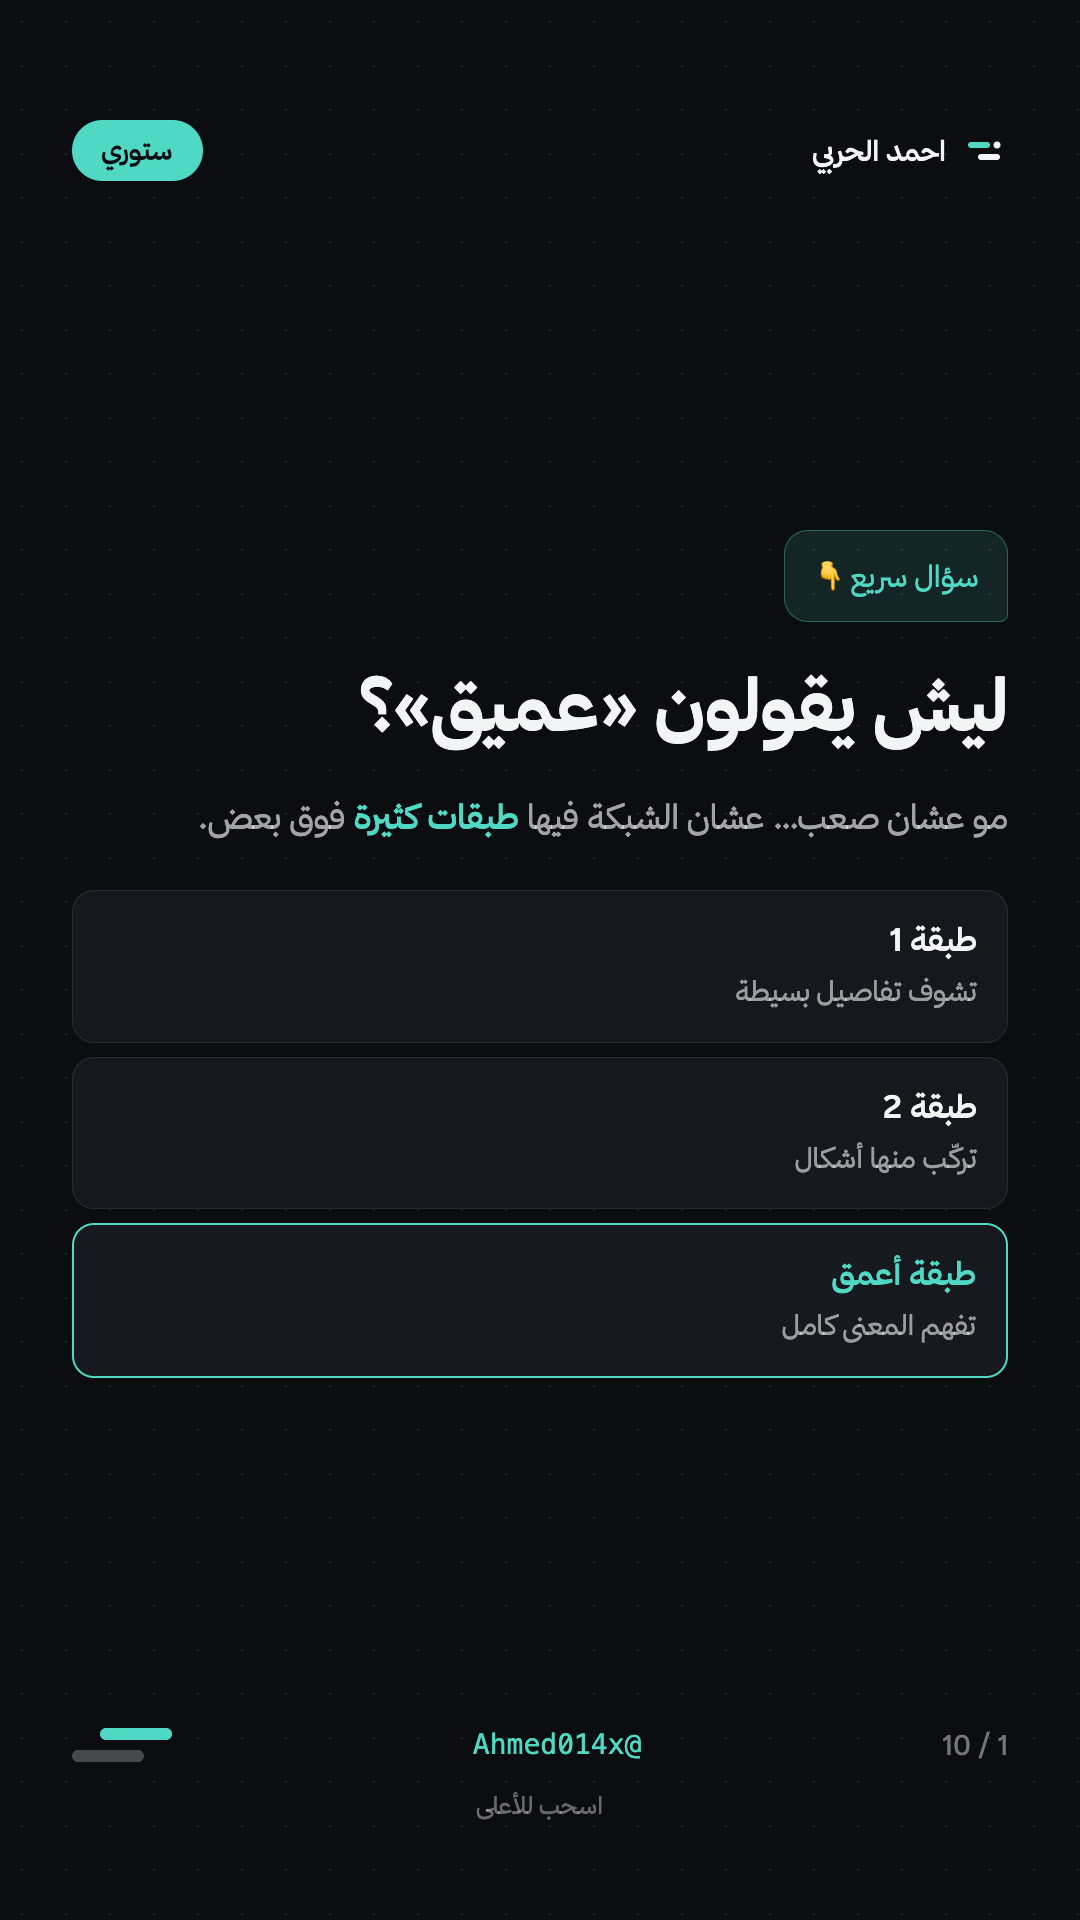
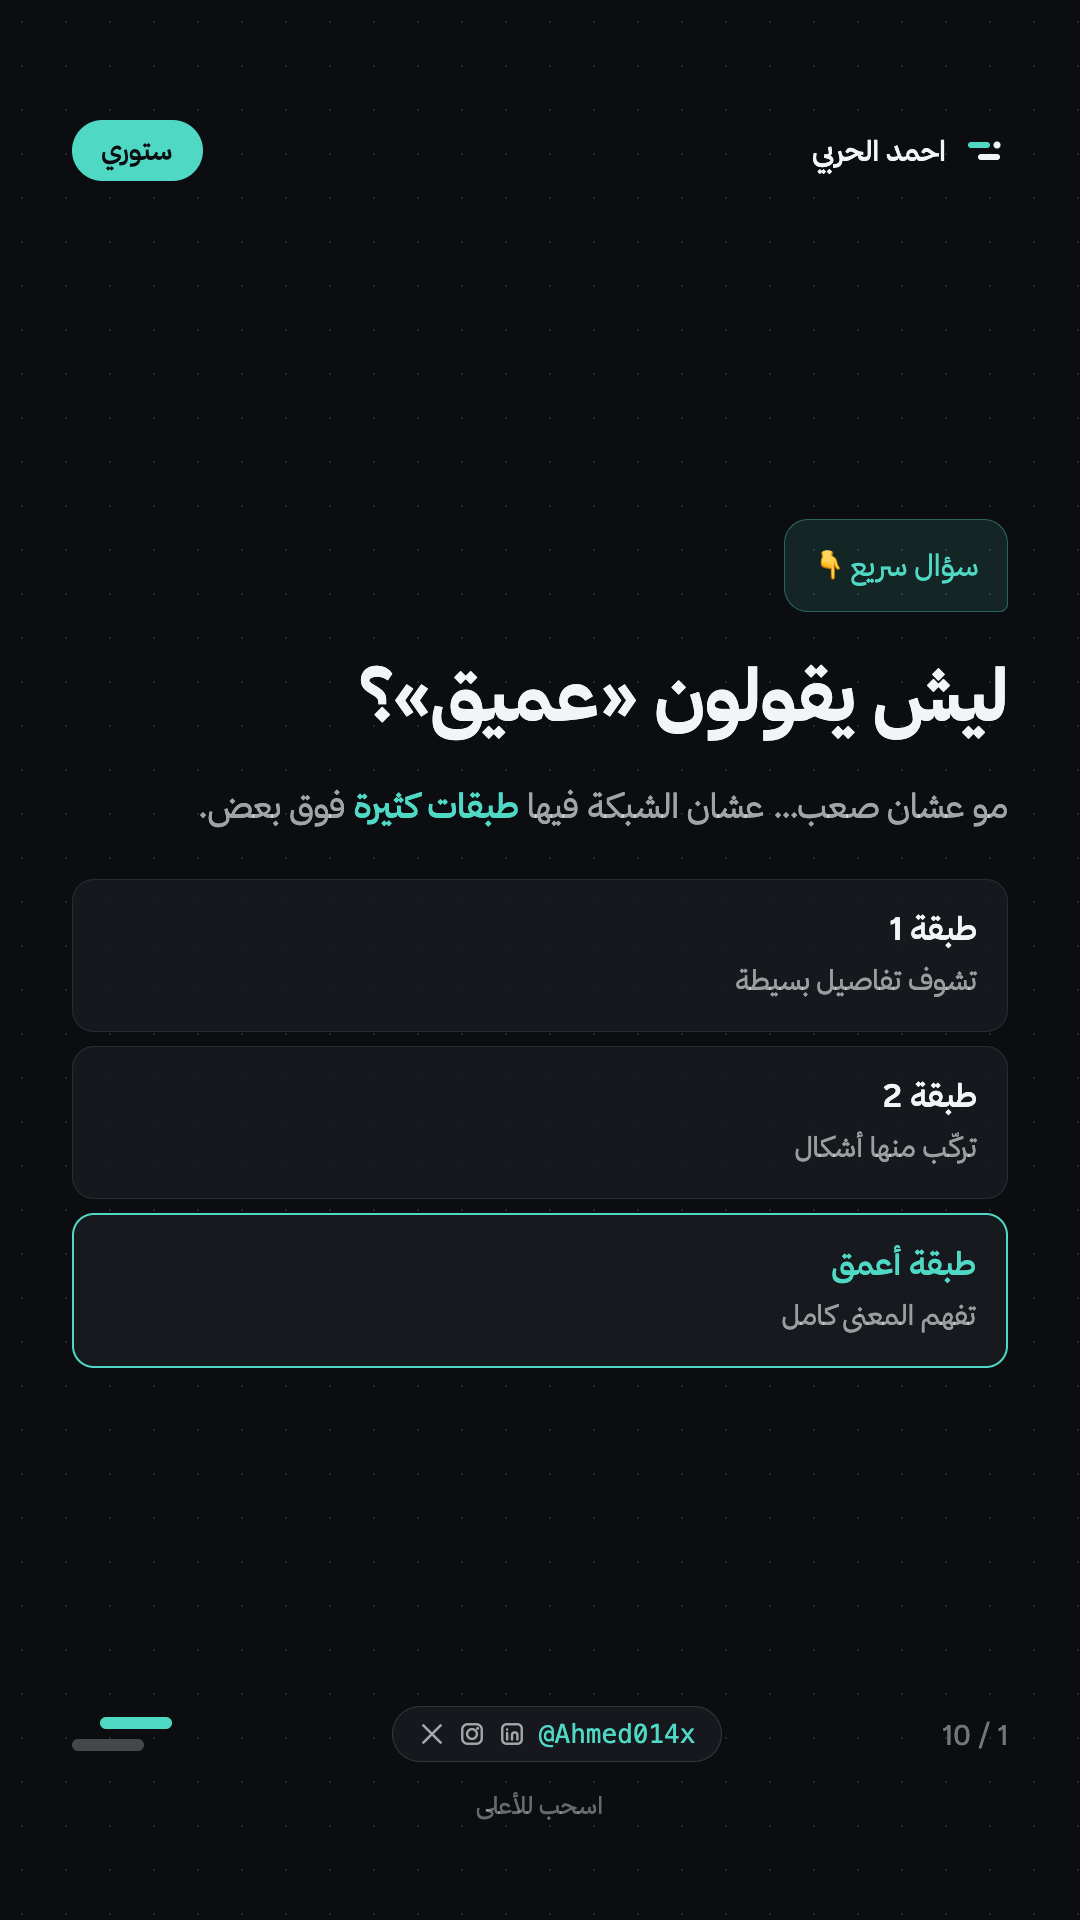
Update brand package HTML and PNG assets to enhance visual consistency and improve layout. Replace social media handle with a styled container for better presentation across multiple sections.

diff --git a/brand-package/html/ستوريات-التعلم-العميق.html b/brand-package/html/ستوريات-التعلم-العميق.html
@@ -44,7 +44,7 @@ body{margin:0;background:#171a1f;font-family:'Thmanyah Sans',sans-serif}
   <div style="margin-top:auto;display:flex;flex-direction:column;gap:28px">
   <div style="display:flex;justify-content:space-between;align-items:center">
     <span style="font-size:28px;color:rgba(242,244,246,.45)">1 / 10</span>
-    <span style="font-family:ui-monospace,monospace;font-size:28px;color:#4fd8c4">@Ahmed014x</span>
+    <div dir="ltr" style="display:flex;align-items:center;gap:14px;padding:12px 26px;background:rgba(23,26,31,.9);border:1px solid rgba(255,255,255,.12);border-radius:999px"><svg width="26" height="26" viewBox="0 0 24 24" fill="none" stroke="rgba(242,244,246,.65)" stroke-width="2.4" stroke-linecap="round"><path d="M4 4l16 16M20 4L4 20"/></svg><svg width="26" height="26" viewBox="0 0 24 24" fill="none" stroke="rgba(242,244,246,.65)" stroke-width="2.2" stroke-linecap="round"><rect x="3" y="3" width="18" height="18" rx="5"/><circle cx="12" cy="12" r="4.5"/><circle cx="17.2" cy="6.8" r="1.4" fill="rgba(242,244,246,.65)" stroke="none"/></svg><svg width="26" height="26" viewBox="0 0 24 24" fill="none" stroke="rgba(242,244,246,.65)" stroke-width="2.2" stroke-linecap="round"><rect x="3" y="3" width="18" height="18" rx="4"/><path d="M7.5 11v6M7.5 7.8v.1M12 17v-4a2.5 2.5 0 0 1 5 0v4"/></svg><span dir="ltr" style="font-size:26px;font-family:ui-monospace,monospace;color:#4fd8c4">@Ahmed014x</span></div>
     <div style="display:flex;flex-direction:column;gap:10px;align-items:flex-start"><span style="width:72px;height:12px;border-radius:6px;background:#4fd8c4"></span><span style="width:72px;height:12px;border-radius:6px;background:rgba(242,244,246,.25);margin-right:28px"></span></div>
   </div>
   <div style="text-align:center;font-size:24px;color:rgba(242,244,246,.4)">اسحب للأعلى</div>
@@ -66,7 +66,7 @@ body{margin:0;background:#171a1f;font-family:'Thmanyah Sans',sans-serif}
   <div style="margin-top:auto;display:flex;flex-direction:column;gap:28px">
   <div style="display:flex;justify-content:space-between;align-items:center">
     <span style="font-size:28px;color:rgba(242,244,246,.45)">2 / 10</span>
-    <span style="font-family:ui-monospace,monospace;font-size:28px;color:#4fd8c4">@Ahmed014x</span>
+    <div dir="ltr" style="display:flex;align-items:center;gap:14px;padding:12px 26px;background:rgba(23,26,31,.9);border:1px solid rgba(255,255,255,.12);border-radius:999px"><svg width="26" height="26" viewBox="0 0 24 24" fill="none" stroke="rgba(242,244,246,.65)" stroke-width="2.4" stroke-linecap="round"><path d="M4 4l16 16M20 4L4 20"/></svg><svg width="26" height="26" viewBox="0 0 24 24" fill="none" stroke="rgba(242,244,246,.65)" stroke-width="2.2" stroke-linecap="round"><rect x="3" y="3" width="18" height="18" rx="5"/><circle cx="12" cy="12" r="4.5"/><circle cx="17.2" cy="6.8" r="1.4" fill="rgba(242,244,246,.65)" stroke="none"/></svg><svg width="26" height="26" viewBox="0 0 24 24" fill="none" stroke="rgba(242,244,246,.65)" stroke-width="2.2" stroke-linecap="round"><rect x="3" y="3" width="18" height="18" rx="4"/><path d="M7.5 11v6M7.5 7.8v.1M12 17v-4a2.5 2.5 0 0 1 5 0v4"/></svg><span dir="ltr" style="font-size:26px;font-family:ui-monospace,monospace;color:#4fd8c4">@Ahmed014x</span></div>
     <div style="display:flex;flex-direction:column;gap:10px;align-items:flex-start"><span style="width:72px;height:12px;border-radius:6px;background:#4fd8c4"></span><span style="width:72px;height:12px;border-radius:6px;background:rgba(242,244,246,.25);margin-right:28px"></span></div>
   </div>
   <div style="text-align:center;font-size:24px;color:rgba(242,244,246,.4)">اسحب للأعلى</div>
@@ -99,7 +99,7 @@ body{margin:0;background:#171a1f;font-family:'Thmanyah Sans',sans-serif}
   <div style="margin-top:auto;display:flex;flex-direction:column;gap:28px">
   <div style="display:flex;justify-content:space-between;align-items:center">
     <span style="font-size:28px;color:rgba(242,244,246,.45)">3 / 10</span>
-    <span style="font-family:ui-monospace,monospace;font-size:28px;color:#4fd8c4">@Ahmed014x</span>
+    <div dir="ltr" style="display:flex;align-items:center;gap:14px;padding:12px 26px;background:rgba(23,26,31,.9);border:1px solid rgba(255,255,255,.12);border-radius:999px"><svg width="26" height="26" viewBox="0 0 24 24" fill="none" stroke="rgba(242,244,246,.65)" stroke-width="2.4" stroke-linecap="round"><path d="M4 4l16 16M20 4L4 20"/></svg><svg width="26" height="26" viewBox="0 0 24 24" fill="none" stroke="rgba(242,244,246,.65)" stroke-width="2.2" stroke-linecap="round"><rect x="3" y="3" width="18" height="18" rx="5"/><circle cx="12" cy="12" r="4.5"/><circle cx="17.2" cy="6.8" r="1.4" fill="rgba(242,244,246,.65)" stroke="none"/></svg><svg width="26" height="26" viewBox="0 0 24 24" fill="none" stroke="rgba(242,244,246,.65)" stroke-width="2.2" stroke-linecap="round"><rect x="3" y="3" width="18" height="18" rx="4"/><path d="M7.5 11v6M7.5 7.8v.1M12 17v-4a2.5 2.5 0 0 1 5 0v4"/></svg><span dir="ltr" style="font-size:26px;font-family:ui-monospace,monospace;color:#4fd8c4">@Ahmed014x</span></div>
     <div style="display:flex;flex-direction:column;gap:10px;align-items:flex-start"><span style="width:72px;height:12px;border-radius:6px;background:#4fd8c4"></span><span style="width:72px;height:12px;border-radius:6px;background:rgba(242,244,246,.25);margin-right:28px"></span></div>
   </div>
   <div style="text-align:center;font-size:24px;color:rgba(242,244,246,.4)">اسحب للأعلى</div>
@@ -132,7 +132,7 @@ body{margin:0;background:#171a1f;font-family:'Thmanyah Sans',sans-serif}
   <div style="margin-top:auto;display:flex;flex-direction:column;gap:28px">
   <div style="display:flex;justify-content:space-between;align-items:center">
     <span style="font-size:28px;color:rgba(242,244,246,.45)">4 / 10</span>
-    <span style="font-family:ui-monospace,monospace;font-size:28px;color:#4fd8c4">@Ahmed014x</span>
+    <div dir="ltr" style="display:flex;align-items:center;gap:14px;padding:12px 26px;background:rgba(23,26,31,.9);border:1px solid rgba(255,255,255,.12);border-radius:999px"><svg width="26" height="26" viewBox="0 0 24 24" fill="none" stroke="rgba(242,244,246,.65)" stroke-width="2.4" stroke-linecap="round"><path d="M4 4l16 16M20 4L4 20"/></svg><svg width="26" height="26" viewBox="0 0 24 24" fill="none" stroke="rgba(242,244,246,.65)" stroke-width="2.2" stroke-linecap="round"><rect x="3" y="3" width="18" height="18" rx="5"/><circle cx="12" cy="12" r="4.5"/><circle cx="17.2" cy="6.8" r="1.4" fill="rgba(242,244,246,.65)" stroke="none"/></svg><svg width="26" height="26" viewBox="0 0 24 24" fill="none" stroke="rgba(242,244,246,.65)" stroke-width="2.2" stroke-linecap="round"><rect x="3" y="3" width="18" height="18" rx="4"/><path d="M7.5 11v6M7.5 7.8v.1M12 17v-4a2.5 2.5 0 0 1 5 0v4"/></svg><span dir="ltr" style="font-size:26px;font-family:ui-monospace,monospace;color:#4fd8c4">@Ahmed014x</span></div>
     <div style="display:flex;flex-direction:column;gap:10px;align-items:flex-start"><span style="width:72px;height:12px;border-radius:6px;background:#4fd8c4"></span><span style="width:72px;height:12px;border-radius:6px;background:rgba(242,244,246,.25);margin-right:28px"></span></div>
   </div>
   <div style="text-align:center;font-size:24px;color:rgba(242,244,246,.4)">اسحب للأعلى</div>
@@ -158,7 +158,7 @@ body{margin:0;background:#171a1f;font-family:'Thmanyah Sans',sans-serif}
   <div style="margin-top:auto;display:flex;flex-direction:column;gap:28px">
   <div style="display:flex;justify-content:space-between;align-items:center">
     <span style="font-size:28px;color:rgba(242,244,246,.45)">5 / 10</span>
-    <span style="font-family:ui-monospace,monospace;font-size:28px;color:#4fd8c4">@Ahmed014x</span>
+    <div dir="ltr" style="display:flex;align-items:center;gap:14px;padding:12px 26px;background:rgba(23,26,31,.9);border:1px solid rgba(255,255,255,.12);border-radius:999px"><svg width="26" height="26" viewBox="0 0 24 24" fill="none" stroke="rgba(242,244,246,.65)" stroke-width="2.4" stroke-linecap="round"><path d="M4 4l16 16M20 4L4 20"/></svg><svg width="26" height="26" viewBox="0 0 24 24" fill="none" stroke="rgba(242,244,246,.65)" stroke-width="2.2" stroke-linecap="round"><rect x="3" y="3" width="18" height="18" rx="5"/><circle cx="12" cy="12" r="4.5"/><circle cx="17.2" cy="6.8" r="1.4" fill="rgba(242,244,246,.65)" stroke="none"/></svg><svg width="26" height="26" viewBox="0 0 24 24" fill="none" stroke="rgba(242,244,246,.65)" stroke-width="2.2" stroke-linecap="round"><rect x="3" y="3" width="18" height="18" rx="4"/><path d="M7.5 11v6M7.5 7.8v.1M12 17v-4a2.5 2.5 0 0 1 5 0v4"/></svg><span dir="ltr" style="font-size:26px;font-family:ui-monospace,monospace;color:#4fd8c4">@Ahmed014x</span></div>
     <div style="display:flex;flex-direction:column;gap:10px;align-items:flex-start"><span style="width:72px;height:12px;border-radius:6px;background:#4fd8c4"></span><span style="width:72px;height:12px;border-radius:6px;background:rgba(242,244,246,.25);margin-right:28px"></span></div>
   </div>
   <div style="text-align:center;font-size:24px;color:rgba(242,244,246,.4)">اسحب للأعلى</div>
@@ -187,7 +187,7 @@ body{margin:0;background:#171a1f;font-family:'Thmanyah Sans',sans-serif}
   <div style="margin-top:auto;display:flex;flex-direction:column;gap:28px">
   <div style="display:flex;justify-content:space-between;align-items:center">
     <span style="font-size:28px;color:rgba(242,244,246,.45)">6 / 10</span>
-    <span style="font-family:ui-monospace,monospace;font-size:28px;color:#4fd8c4">@Ahmed014x</span>
+    <div dir="ltr" style="display:flex;align-items:center;gap:14px;padding:12px 26px;background:rgba(23,26,31,.9);border:1px solid rgba(255,255,255,.12);border-radius:999px"><svg width="26" height="26" viewBox="0 0 24 24" fill="none" stroke="rgba(242,244,246,.65)" stroke-width="2.4" stroke-linecap="round"><path d="M4 4l16 16M20 4L4 20"/></svg><svg width="26" height="26" viewBox="0 0 24 24" fill="none" stroke="rgba(242,244,246,.65)" stroke-width="2.2" stroke-linecap="round"><rect x="3" y="3" width="18" height="18" rx="5"/><circle cx="12" cy="12" r="4.5"/><circle cx="17.2" cy="6.8" r="1.4" fill="rgba(242,244,246,.65)" stroke="none"/></svg><svg width="26" height="26" viewBox="0 0 24 24" fill="none" stroke="rgba(242,244,246,.65)" stroke-width="2.2" stroke-linecap="round"><rect x="3" y="3" width="18" height="18" rx="4"/><path d="M7.5 11v6M7.5 7.8v.1M12 17v-4a2.5 2.5 0 0 1 5 0v4"/></svg><span dir="ltr" style="font-size:26px;font-family:ui-monospace,monospace;color:#4fd8c4">@Ahmed014x</span></div>
     <div style="display:flex;flex-direction:column;gap:10px;align-items:flex-start"><span style="width:72px;height:12px;border-radius:6px;background:#4fd8c4"></span><span style="width:72px;height:12px;border-radius:6px;background:rgba(242,244,246,.25);margin-right:28px"></span></div>
   </div>
   <div style="text-align:center;font-size:24px;color:rgba(242,244,246,.4)">اسحب للأعلى</div>
@@ -222,7 +222,7 @@ body{margin:0;background:#171a1f;font-family:'Thmanyah Sans',sans-serif}
   <div style="margin-top:auto;display:flex;flex-direction:column;gap:28px">
   <div style="display:flex;justify-content:space-between;align-items:center">
     <span style="font-size:28px;color:rgba(242,244,246,.45)">7 / 10</span>
-    <span style="font-family:ui-monospace,monospace;font-size:28px;color:#4fd8c4">@Ahmed014x</span>
+    <div dir="ltr" style="display:flex;align-items:center;gap:14px;padding:12px 26px;background:rgba(23,26,31,.9);border:1px solid rgba(255,255,255,.12);border-radius:999px"><svg width="26" height="26" viewBox="0 0 24 24" fill="none" stroke="rgba(242,244,246,.65)" stroke-width="2.4" stroke-linecap="round"><path d="M4 4l16 16M20 4L4 20"/></svg><svg width="26" height="26" viewBox="0 0 24 24" fill="none" stroke="rgba(242,244,246,.65)" stroke-width="2.2" stroke-linecap="round"><rect x="3" y="3" width="18" height="18" rx="5"/><circle cx="12" cy="12" r="4.5"/><circle cx="17.2" cy="6.8" r="1.4" fill="rgba(242,244,246,.65)" stroke="none"/></svg><svg width="26" height="26" viewBox="0 0 24 24" fill="none" stroke="rgba(242,244,246,.65)" stroke-width="2.2" stroke-linecap="round"><rect x="3" y="3" width="18" height="18" rx="4"/><path d="M7.5 11v6M7.5 7.8v.1M12 17v-4a2.5 2.5 0 0 1 5 0v4"/></svg><span dir="ltr" style="font-size:26px;font-family:ui-monospace,monospace;color:#4fd8c4">@Ahmed014x</span></div>
     <div style="display:flex;flex-direction:column;gap:10px;align-items:flex-start"><span style="width:72px;height:12px;border-radius:6px;background:#4fd8c4"></span><span style="width:72px;height:12px;border-radius:6px;background:rgba(242,244,246,.25);margin-right:28px"></span></div>
   </div>
   <div style="text-align:center;font-size:24px;color:rgba(242,244,246,.4)">اسحب للأعلى</div>
@@ -251,7 +251,7 @@ body{margin:0;background:#171a1f;font-family:'Thmanyah Sans',sans-serif}
   <div style="margin-top:auto;display:flex;flex-direction:column;gap:28px">
   <div style="display:flex;justify-content:space-between;align-items:center">
     <span style="font-size:28px;color:rgba(242,244,246,.45)">8 / 10</span>
-    <span style="font-family:ui-monospace,monospace;font-size:28px;color:#4fd8c4">@Ahmed014x</span>
+    <div dir="ltr" style="display:flex;align-items:center;gap:14px;padding:12px 26px;background:rgba(23,26,31,.9);border:1px solid rgba(255,255,255,.12);border-radius:999px"><svg width="26" height="26" viewBox="0 0 24 24" fill="none" stroke="rgba(242,244,246,.65)" stroke-width="2.4" stroke-linecap="round"><path d="M4 4l16 16M20 4L4 20"/></svg><svg width="26" height="26" viewBox="0 0 24 24" fill="none" stroke="rgba(242,244,246,.65)" stroke-width="2.2" stroke-linecap="round"><rect x="3" y="3" width="18" height="18" rx="5"/><circle cx="12" cy="12" r="4.5"/><circle cx="17.2" cy="6.8" r="1.4" fill="rgba(242,244,246,.65)" stroke="none"/></svg><svg width="26" height="26" viewBox="0 0 24 24" fill="none" stroke="rgba(242,244,246,.65)" stroke-width="2.2" stroke-linecap="round"><rect x="3" y="3" width="18" height="18" rx="4"/><path d="M7.5 11v6M7.5 7.8v.1M12 17v-4a2.5 2.5 0 0 1 5 0v4"/></svg><span dir="ltr" style="font-size:26px;font-family:ui-monospace,monospace;color:#4fd8c4">@Ahmed014x</span></div>
     <div style="display:flex;flex-direction:column;gap:10px;align-items:flex-start"><span style="width:72px;height:12px;border-radius:6px;background:#4fd8c4"></span><span style="width:72px;height:12px;border-radius:6px;background:rgba(242,244,246,.25);margin-right:28px"></span></div>
   </div>
   <div style="text-align:center;font-size:24px;color:rgba(242,244,246,.4)">اسحب للأعلى</div>
@@ -284,7 +284,7 @@ body{margin:0;background:#171a1f;font-family:'Thmanyah Sans',sans-serif}
   <div style="margin-top:auto;display:flex;flex-direction:column;gap:28px">
   <div style="display:flex;justify-content:space-between;align-items:center">
     <span style="font-size:28px;color:rgba(242,244,246,.45)">9 / 10</span>
-    <span style="font-family:ui-monospace,monospace;font-size:28px;color:#4fd8c4">@Ahmed014x</span>
+    <div dir="ltr" style="display:flex;align-items:center;gap:14px;padding:12px 26px;background:rgba(23,26,31,.9);border:1px solid rgba(255,255,255,.12);border-radius:999px"><svg width="26" height="26" viewBox="0 0 24 24" fill="none" stroke="rgba(242,244,246,.65)" stroke-width="2.4" stroke-linecap="round"><path d="M4 4l16 16M20 4L4 20"/></svg><svg width="26" height="26" viewBox="0 0 24 24" fill="none" stroke="rgba(242,244,246,.65)" stroke-width="2.2" stroke-linecap="round"><rect x="3" y="3" width="18" height="18" rx="5"/><circle cx="12" cy="12" r="4.5"/><circle cx="17.2" cy="6.8" r="1.4" fill="rgba(242,244,246,.65)" stroke="none"/></svg><svg width="26" height="26" viewBox="0 0 24 24" fill="none" stroke="rgba(242,244,246,.65)" stroke-width="2.2" stroke-linecap="round"><rect x="3" y="3" width="18" height="18" rx="4"/><path d="M7.5 11v6M7.5 7.8v.1M12 17v-4a2.5 2.5 0 0 1 5 0v4"/></svg><span dir="ltr" style="font-size:26px;font-family:ui-monospace,monospace;color:#4fd8c4">@Ahmed014x</span></div>
     <div style="display:flex;flex-direction:column;gap:10px;align-items:flex-start"><span style="width:72px;height:12px;border-radius:6px;background:#4fd8c4"></span><span style="width:72px;height:12px;border-radius:6px;background:rgba(242,244,246,.25);margin-right:28px"></span></div>
   </div>
   <div style="text-align:center;font-size:24px;color:rgba(242,244,246,.4)">اسحب للأعلى</div>
@@ -317,7 +317,7 @@ body{margin:0;background:#171a1f;font-family:'Thmanyah Sans',sans-serif}
   <div style="margin-top:auto;display:flex;flex-direction:column;gap:28px">
   <div style="display:flex;justify-content:space-between;align-items:center">
     <span style="font-size:28px;color:rgba(242,244,246,.45)">10 / 10</span>
-    <span style="font-family:ui-monospace,monospace;font-size:28px;color:#4fd8c4">@Ahmed014x</span>
+    <div dir="ltr" style="display:flex;align-items:center;gap:14px;padding:12px 26px;background:rgba(23,26,31,.9);border:1px solid rgba(255,255,255,.12);border-radius:999px"><svg width="26" height="26" viewBox="0 0 24 24" fill="none" stroke="rgba(242,244,246,.65)" stroke-width="2.4" stroke-linecap="round"><path d="M4 4l16 16M20 4L4 20"/></svg><svg width="26" height="26" viewBox="0 0 24 24" fill="none" stroke="rgba(242,244,246,.65)" stroke-width="2.2" stroke-linecap="round"><rect x="3" y="3" width="18" height="18" rx="5"/><circle cx="12" cy="12" r="4.5"/><circle cx="17.2" cy="6.8" r="1.4" fill="rgba(242,244,246,.65)" stroke="none"/></svg><svg width="26" height="26" viewBox="0 0 24 24" fill="none" stroke="rgba(242,244,246,.65)" stroke-width="2.2" stroke-linecap="round"><rect x="3" y="3" width="18" height="18" rx="4"/><path d="M7.5 11v6M7.5 7.8v.1M12 17v-4a2.5 2.5 0 0 1 5 0v4"/></svg><span dir="ltr" style="font-size:26px;font-family:ui-monospace,monospace;color:#4fd8c4">@Ahmed014x</span></div>
     <div style="display:flex;flex-direction:column;gap:10px;align-items:flex-start"><span style="width:72px;height:12px;border-radius:6px;background:#4fd8c4"></span><span style="width:72px;height:12px;border-radius:6px;background:rgba(242,244,246,.25);margin-right:28px"></span></div>
   </div>
   <div style="text-align:center;font-size:24px;color:rgba(242,244,246,.4)">اسحب للأعلى</div>
